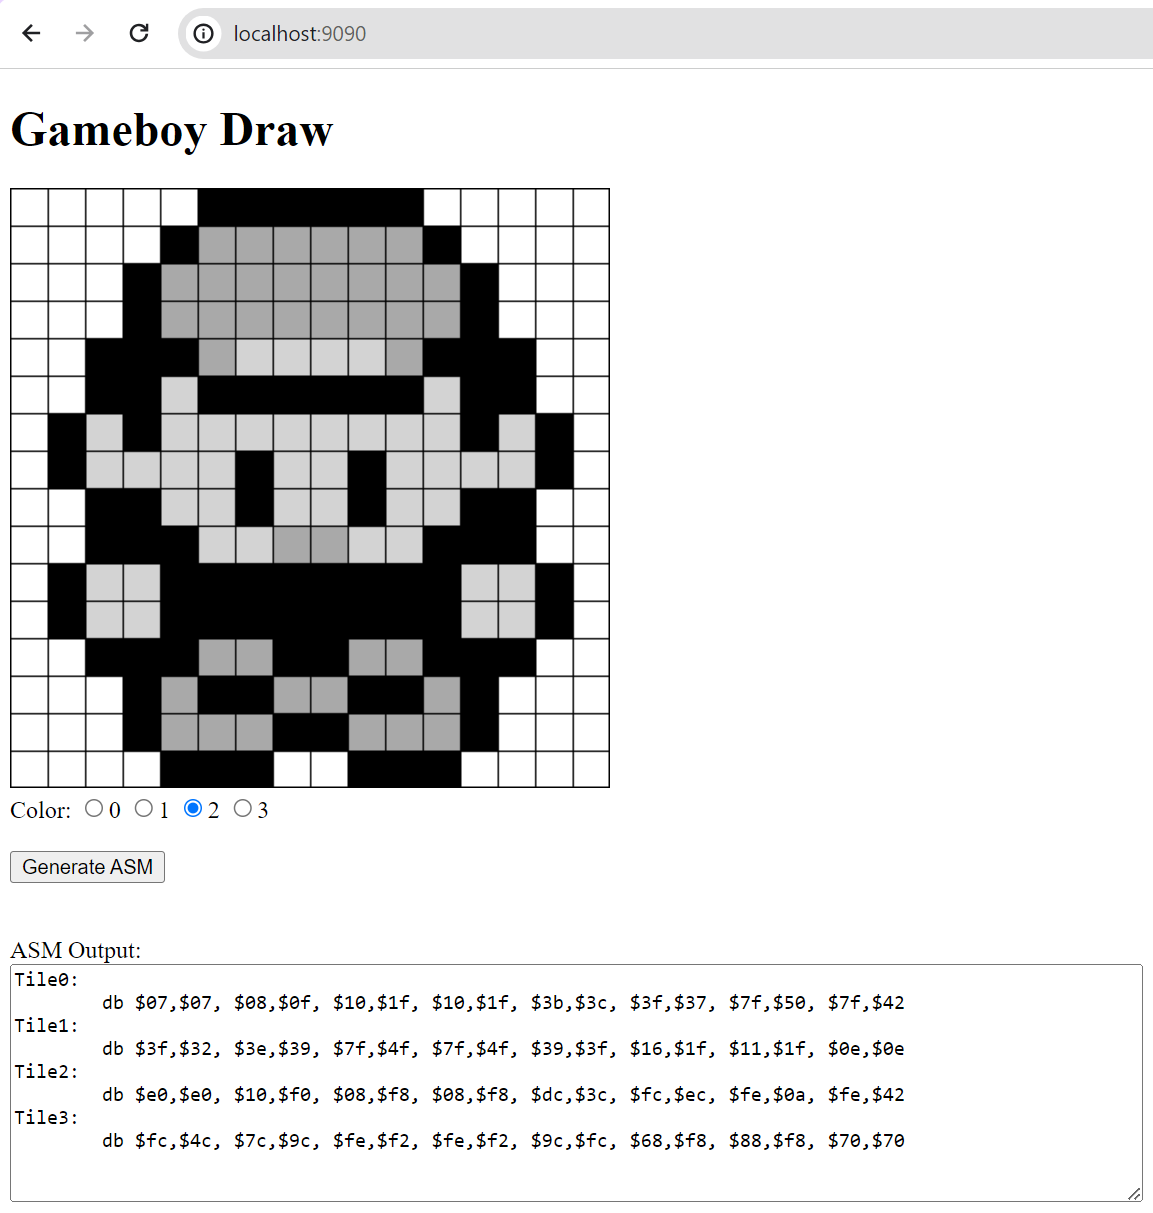
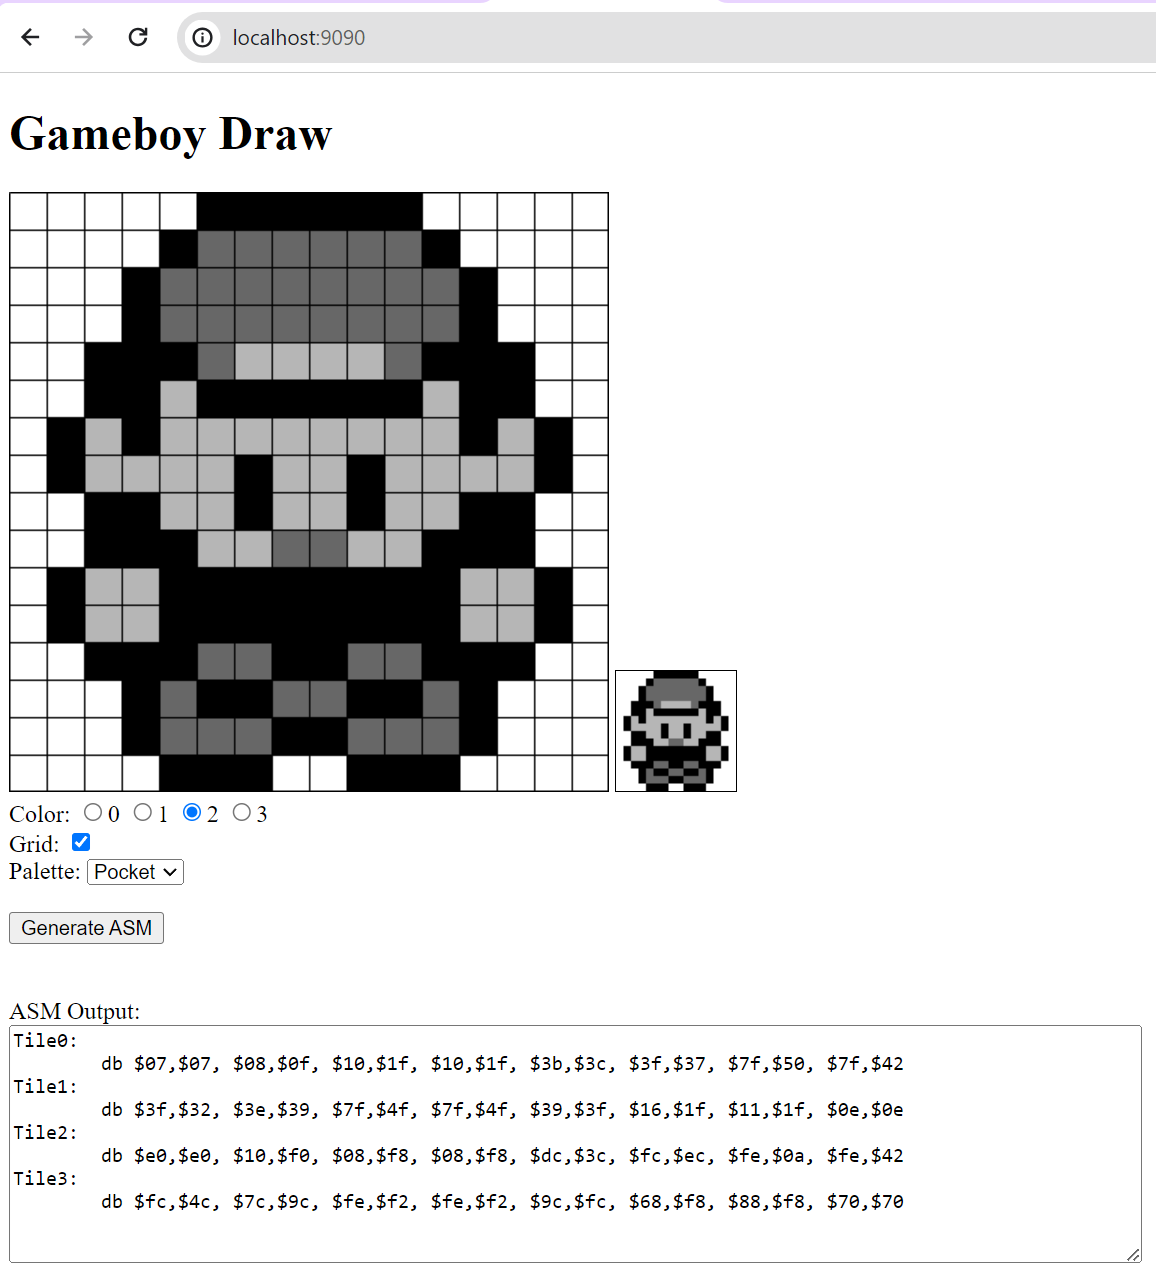
A few updates: - color can be selected by pressing 1, 2, 3, or 0 on keyboard - palette can be switched between DMG (green) and Pocket (gray) - grid can be turned on/off - smaller preview shows up in bottom right

diff --git a/main.js b/main.js
@@ -15,6 +15,21 @@ for (var i = 0; i < pixels_height; i++) {
 	stored_pixels.push(pxarr);
 }
 
+palette_data = {
+	'DMG' : {
+		'color_0': '#9bbc0f',
+		'color_1': '#8bac0f',
+		'color_2': '#306230',
+		'color_3': '#0f380f'
+	},
+	'Pocket' : {
+		'color_0': '#ffffff', // not really right for any of these...
+		'color_1': '#b6b6b6',
+		'color_2': '#676767',
+		'color_3': '#000000'
+	}
+}
+
 const pixelCanvas = document.getElementById("canvas_pixels");
 const ctx = pixelCanvas.getContext("2d");
 
@@ -68,10 +83,16 @@ function drawGrid() {
 	ctx.closePath();
 }
 
-drawGrid();
+gridCheckbox = document.getElementById("grid_checkbox");
+if (gridCheckbox.checked) {
+	drawGrid();
+};
+redrawPixels();
+drawPreview();
+
 
 function setPx(px, py) {
-	stored_pixels[py][px] = getColorGb(); // want 11, 10, 01, 00
+	stored_pixels[py][px] = getColorGb();
 }
 
 function drawPixel(px0, py0) {
@@ -87,20 +108,23 @@ function drawPixel(px0, py0) {
 	ctx.fillRect(canvasX, canvasY, sideSize, sideSize);
 }
 
+function drawPixelColor(px0, py0, color) {
+	sideSize = pixelCanvas.height / pixels_height;
+
+	// translate to canvas location
+	canvasX = px0 * sideSize;
+	canvasY = py0 * sideSize;
+
+	pxColor = gbToJsColor(color);
+	ctx.fillStyle = pxColor;
+
+	ctx.fillRect(canvasX, canvasY, sideSize, sideSize);
+}
+
 function getColorJs() {
 	const radio_color = document.querySelector('input[name=current_color]:checked').value;
-	color = 'White'; // default
-	switch(radio_color) {
-	case 'color_1':
-		color = 'LightGray';
-		break;
-	case 'color_2':
-		color = 'DarkGray';
-		break;
-	case 'color_3':
-		color = 'Black';
-		break;
-	}
+	palette = document.getElementById("palette_select").value;
+	color = palette_data[palette][radio_color];
 	return color;
 }
 
@@ -121,12 +145,24 @@ function getColorGb() {
 	return color;
 }
 
+function gbToJsColor(gb_color) {
+	palette = document.getElementById("palette_select").value;
+	color = palette_data[palette]['color_0']; // default white
+	switch(gb_color) {
+	case '01':
+		color = palette_data[palette]['color_1']; // light
+		break;
+	case '10':
+		color = palette_data[palette]['color_2']; // dark
+		break;
+	case '11':
+		color = palette_data[palette]['color_3']; // black
+		break;
+	}
+	return color;
+}
 
-// generate asm function for button
 function generateASM() {
-	console.log("generateASM");
-	console.log(stored_pixels);
-
 	// a tile is 8 x 8, with two bytes per row
 	// first byte is the low byte, the second byte is the high byte
 	// bit 0 goes to byte 1, bit 1 goes to byte 0...
@@ -181,7 +217,13 @@ pixelCanvas.onmousedown = function(e) {
 
 	setPx(x_y[0], x_y[1]);
 	drawPixel(x_y[0], x_y[1]);
-	drawGrid();
+
+	gridCheckbox = document.getElementById("grid_checkbox");
+	if (gridCheckbox.checked) {
+		drawGrid();
+	};
+
+	drawPreview();
 }
 
 function translateLocToPx(canvasX, canvasY) {
@@ -200,4 +242,75 @@ function binToHexByte(b) {
 	hex = parseInt(b, 2).toString(16);
 	hex = ('00' + hex).slice(-2);
 	return "$" + hex; // asm prefix
+}
+
+function redrawPixels() {
+	for (var y = 0; y < stored_pixels.length; y++) {
+		for (var x = 0; x < stored_pixels[0].length; x++) {
+			drawPixelColor(x, y, stored_pixels[y][x]);
+		}
+	}
+}
+
+function gridCheckClicked() {
+	redrawPixels();
+
+	gridCheckbox = document.getElementById("grid_checkbox");
+	if (gridCheckbox.checked == true) {
+		drawGrid();
+	}
+}
+
+function paletteChange() {
+	redrawPixels();
+	gridCheckbox = document.getElementById("grid_checkbox");
+	if (gridCheckbox.checked == true) {
+		drawGrid();
+	}
+	drawPreview();
+}
+
+document.onkeydown = function(evt) {
+	if (evt.key == '1') {
+		rd = document.getElementById('color_1')
+		rd.checked = true;
+	} else if (evt.key == '2') {
+		rd = document.getElementById('color_2')
+		rd.checked = true;
+	} else if (evt.key == '3') {
+		rd = document.getElementById('color_3')
+		rd.checked = true;
+	} else if (evt.key == '0') {
+		rd = document.getElementById('color_0')
+		rd.checked = true;
+	}
+}
+
+// TODO: "DRY" some of this with the main canvas functions...
+function drawPreview() {
+	previewCanvas = document.getElementById("canvas_preview");
+	pctx = previewCanvas.getContext("2d");
+
+	redrawPixelsPreview(previewCanvas, pctx);
+}
+
+function drawPixelColorPreview(px0, py0, color, pcanvas, pctx) {
+	sideSize = pcanvas.height / pixels_height;
+
+	// translate to canvas location
+	canvasX = px0 * sideSize;
+	canvasY = py0 * sideSize;
+
+	pxColor = gbToJsColor(color);
+	pctx.fillStyle = pxColor;
+
+	pctx.fillRect(canvasX, canvasY, sideSize, sideSize);
+}
+
+function redrawPixelsPreview(pcanvas, pctx) {
+	for (var y = 0; y < stored_pixels.length; y++) {
+		for (var x = 0; x < stored_pixels[0].length; x++) {
+			drawPixelColorPreview(x, y, stored_pixels[y][x], pcanvas, pctx);
+		}
+	}
 }

diff --git a/index.html b/index.html
@@ -13,7 +13,8 @@
 	<!-- canvas 
 		NOTE: for now, static 16 x 16 pixels, so keep width == height
 	-->
-	<canvas id="canvas_pixels" width="400" height="400"></canvas> <br/>
+	<canvas id="canvas_pixels" width="400" height="400"></canvas> 
+	<canvas id="canvas_preview" width="80" height="80" style="border:1px solid black;"></canvas><br/>
 
 	<!-- controls  
 		  - TODO: grid size; start with static grid
@@ -26,7 +27,15 @@
 	<input type="radio" name="current_color" id="color_2" value="color_2" /><label for="color_2">2</label>
 	<input type="radio" name="current_color" id="color_3" value="color_3" /><label for="color_3">3</label>
 	<br/>
+	<label for="grid_checkbox">Grid:</label> <input type="checkbox" id="grid_checkbox" name="grid_checkbox" value="drawgrid_check" onclick="gridCheckClicked();" />
+	<br/>
+	Palette: 
+	<select name="palettes" id="palette_select" onchange="paletteChange();">
+		<option value="DMG">DMG</option>
+		<option value="Pocket">Pocket</option>
+	</select>
 
+	<br/>
 	<br/>
 	<button onclick="generateASM();">Generate ASM</button><br/>
 
